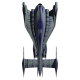
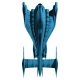
img

Changed region(s): [[0.275, 0.025, 0.725, 0.975], [0.275, 0.575, 0.3, 0.65]]

diff --git a/source/server/model/ships/customs/Prototype.php b/source/server/model/ships/customs/Prototype.php
@@ -16,7 +16,7 @@ class Prototype extends BaseShip{
 	    $this->notes = 'Thunderbolt capable.';
 	    $this->notes .= "<br>This is a custom ship only intended for use in a specific scenario, please do not use unless you've agreed it with your opponent first!";
 	    
-		$this->isd = 2263;
+		$this->isd = 2262;
 		$this->unofficial = true; 
         
 		
@@ -35,15 +35,18 @@ class Prototype extends BaseShip{
 		$this->initiative = 1*5; 
          
         $this->addPrimarySystem(new Reactor(7, 36, 0, 0));
-        $this->addPrimarySystem(new CnC(9, 24, 0, 0));
+        $this->addPrimarySystem(new CnC(8, 24, 0, 0));
         $this->addPrimarySystem(new Scanner(6, 24, 5, 9));
+		$sensors = new Scanner(6, 24, 5, 9);
+		$sensors->markImproved();
+		$this->addPrimarySystem($sensors);        
         $this->addPrimarySystem(new Engine(6, 28, 0, 12, 3));
-		$this->addPrimarySystem(new Hangar(6, 36, 24));
-        $this->addPrimarySystem(new JumpEngine(6, 20, 4, 24));
+		$this->addPrimarySystem(new Hangar(6, 34));
+        $this->addPrimarySystem(new JumpEngine(6, 20, 3, 24));
 	    
 		
 		
-		$diffuserPort = new EnergyDiffuser(5, 12, 3, 270, 0);//($armour, $maxhealth, $dissipation, $startArc, $endArc)
+		$diffuserPort = new EnergyDiffuser(5, 12, 4, 270, 0);//($armour, $maxhealth, $dissipation, $startArc, $endArc)
 		$tendril=new DiffuserTendril(20,'L');//absorbtion capacity,side
 		$diffuserPort->addTendril($tendril);
 		$this->addFrontSystem($tendril);
@@ -52,7 +55,7 @@ class Prototype extends BaseShip{
 		$this->addFrontSystem($tendril);
         $this->addFrontSystem($diffuserPort);		
 		
-		$diffuserStbd = new EnergyDiffuser(5, 12, 3, 0, 90);//($armour, $maxhealth, $dissipation, $startArc, $endArc)
+		$diffuserStbd = new EnergyDiffuser(5, 12, 4, 0, 90);//($armour, $maxhealth, $dissipation, $startArc, $endArc)
 		$tendril=new DiffuserTendril(20,'R');//absorbtion capacity,side
 		$diffuserStbd->addTendril($tendril);
 		$this->addFrontSystem($tendril);
@@ -83,7 +86,7 @@ class Prototype extends BaseShip{
         $this->addAftSystem(new InterceptorMkII(2, 4, 2, 120, 300));
         $this->addAftSystem(new InterceptorMkII(2, 4, 2, 60, 240));
 				
-		$diffuserPort = new EnergyDiffuser(5, 12, 3, 180, 270);//($armour, $maxhealth, $dissipation, $startArc, $endArc)
+		$diffuserPort = new EnergyDiffuser(5, 12, 4, 180, 270);//($armour, $maxhealth, $dissipation, $startArc, $endArc)
 		$tendril=new DiffuserTendril(20,'L');//absorbtion capacity,side
 		$diffuserPort->addTendril($tendril);
 		$this->addAftSystem($tendril);
@@ -92,7 +95,7 @@ class Prototype extends BaseShip{
 		$this->addAftSystem($tendril);
         $this->addAftSystem($diffuserPort);		
 		
-		$diffuserStbd = new EnergyDiffuser(5, 12, 3, 90, 180);//($armour, $maxhealth, $dissipation, $startArc, $endArc)
+		$diffuserStbd = new EnergyDiffuser(5, 12, 4, 90, 180);//($armour, $maxhealth, $dissipation, $startArc, $endArc)
 		$tendril=new DiffuserTendril(20,'R');//absorbtion capacity,side
 		$diffuserStbd->addTendril($tendril);
 		$this->addAftSystem($tendril);
